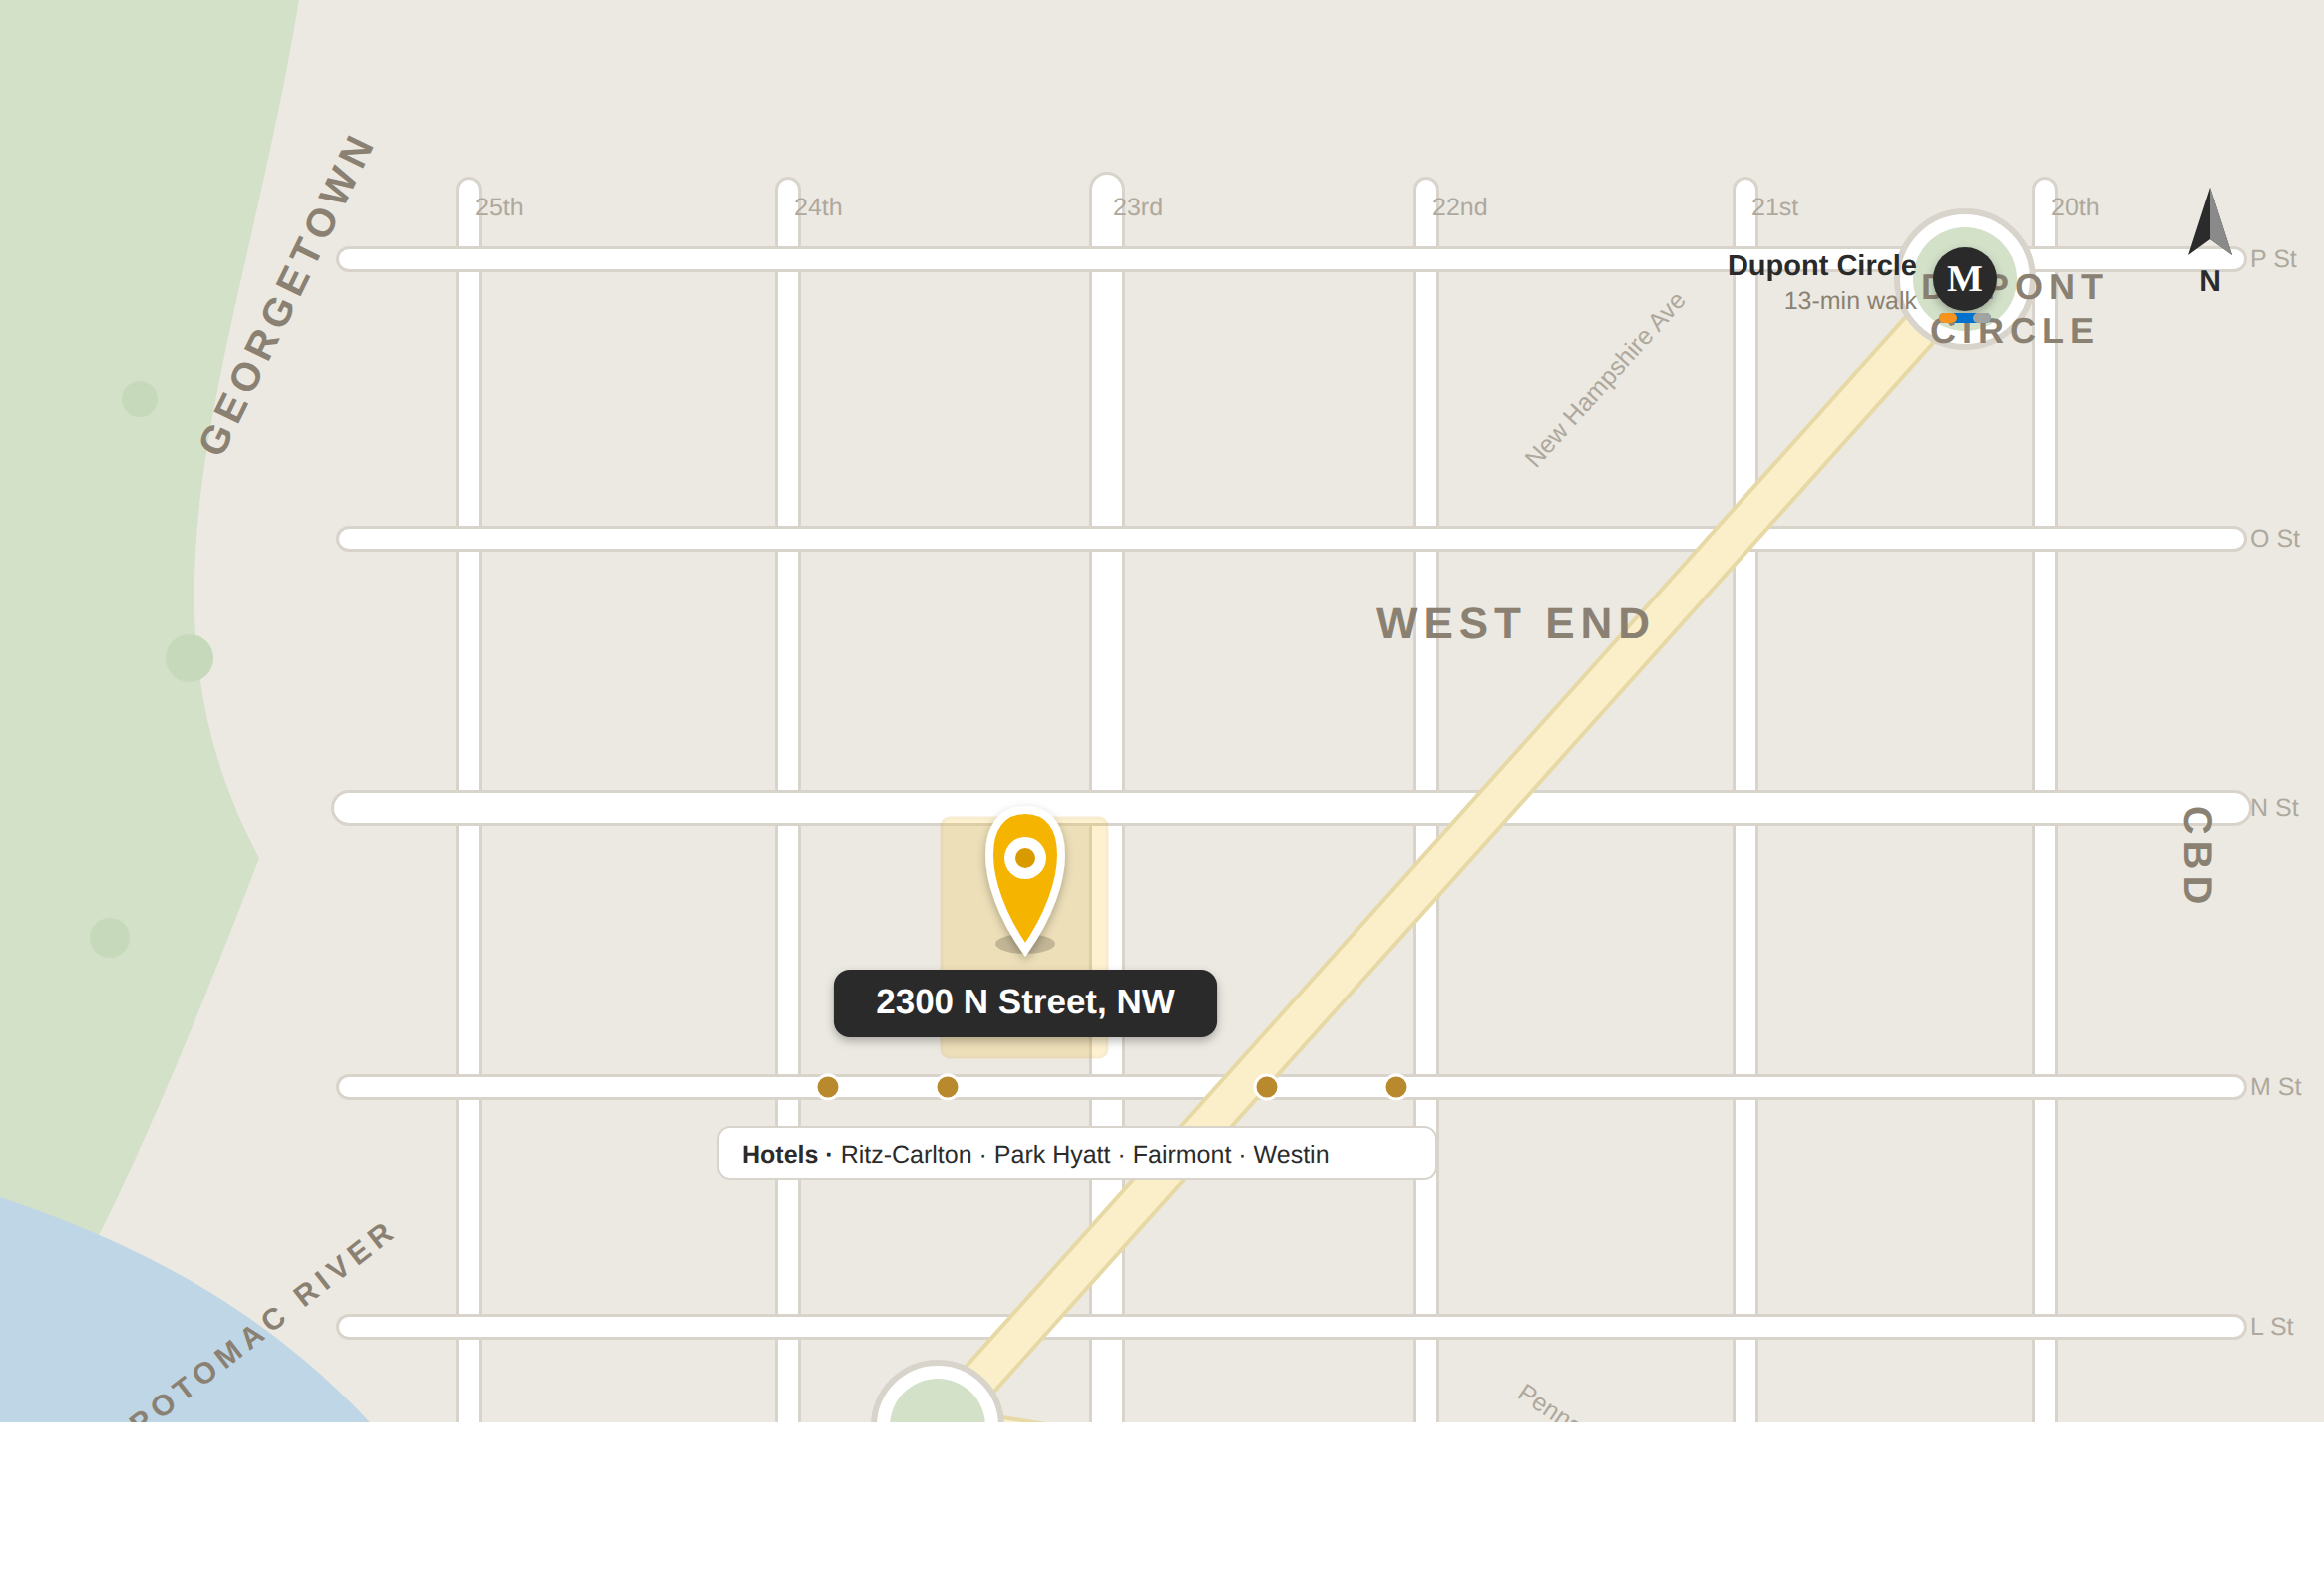
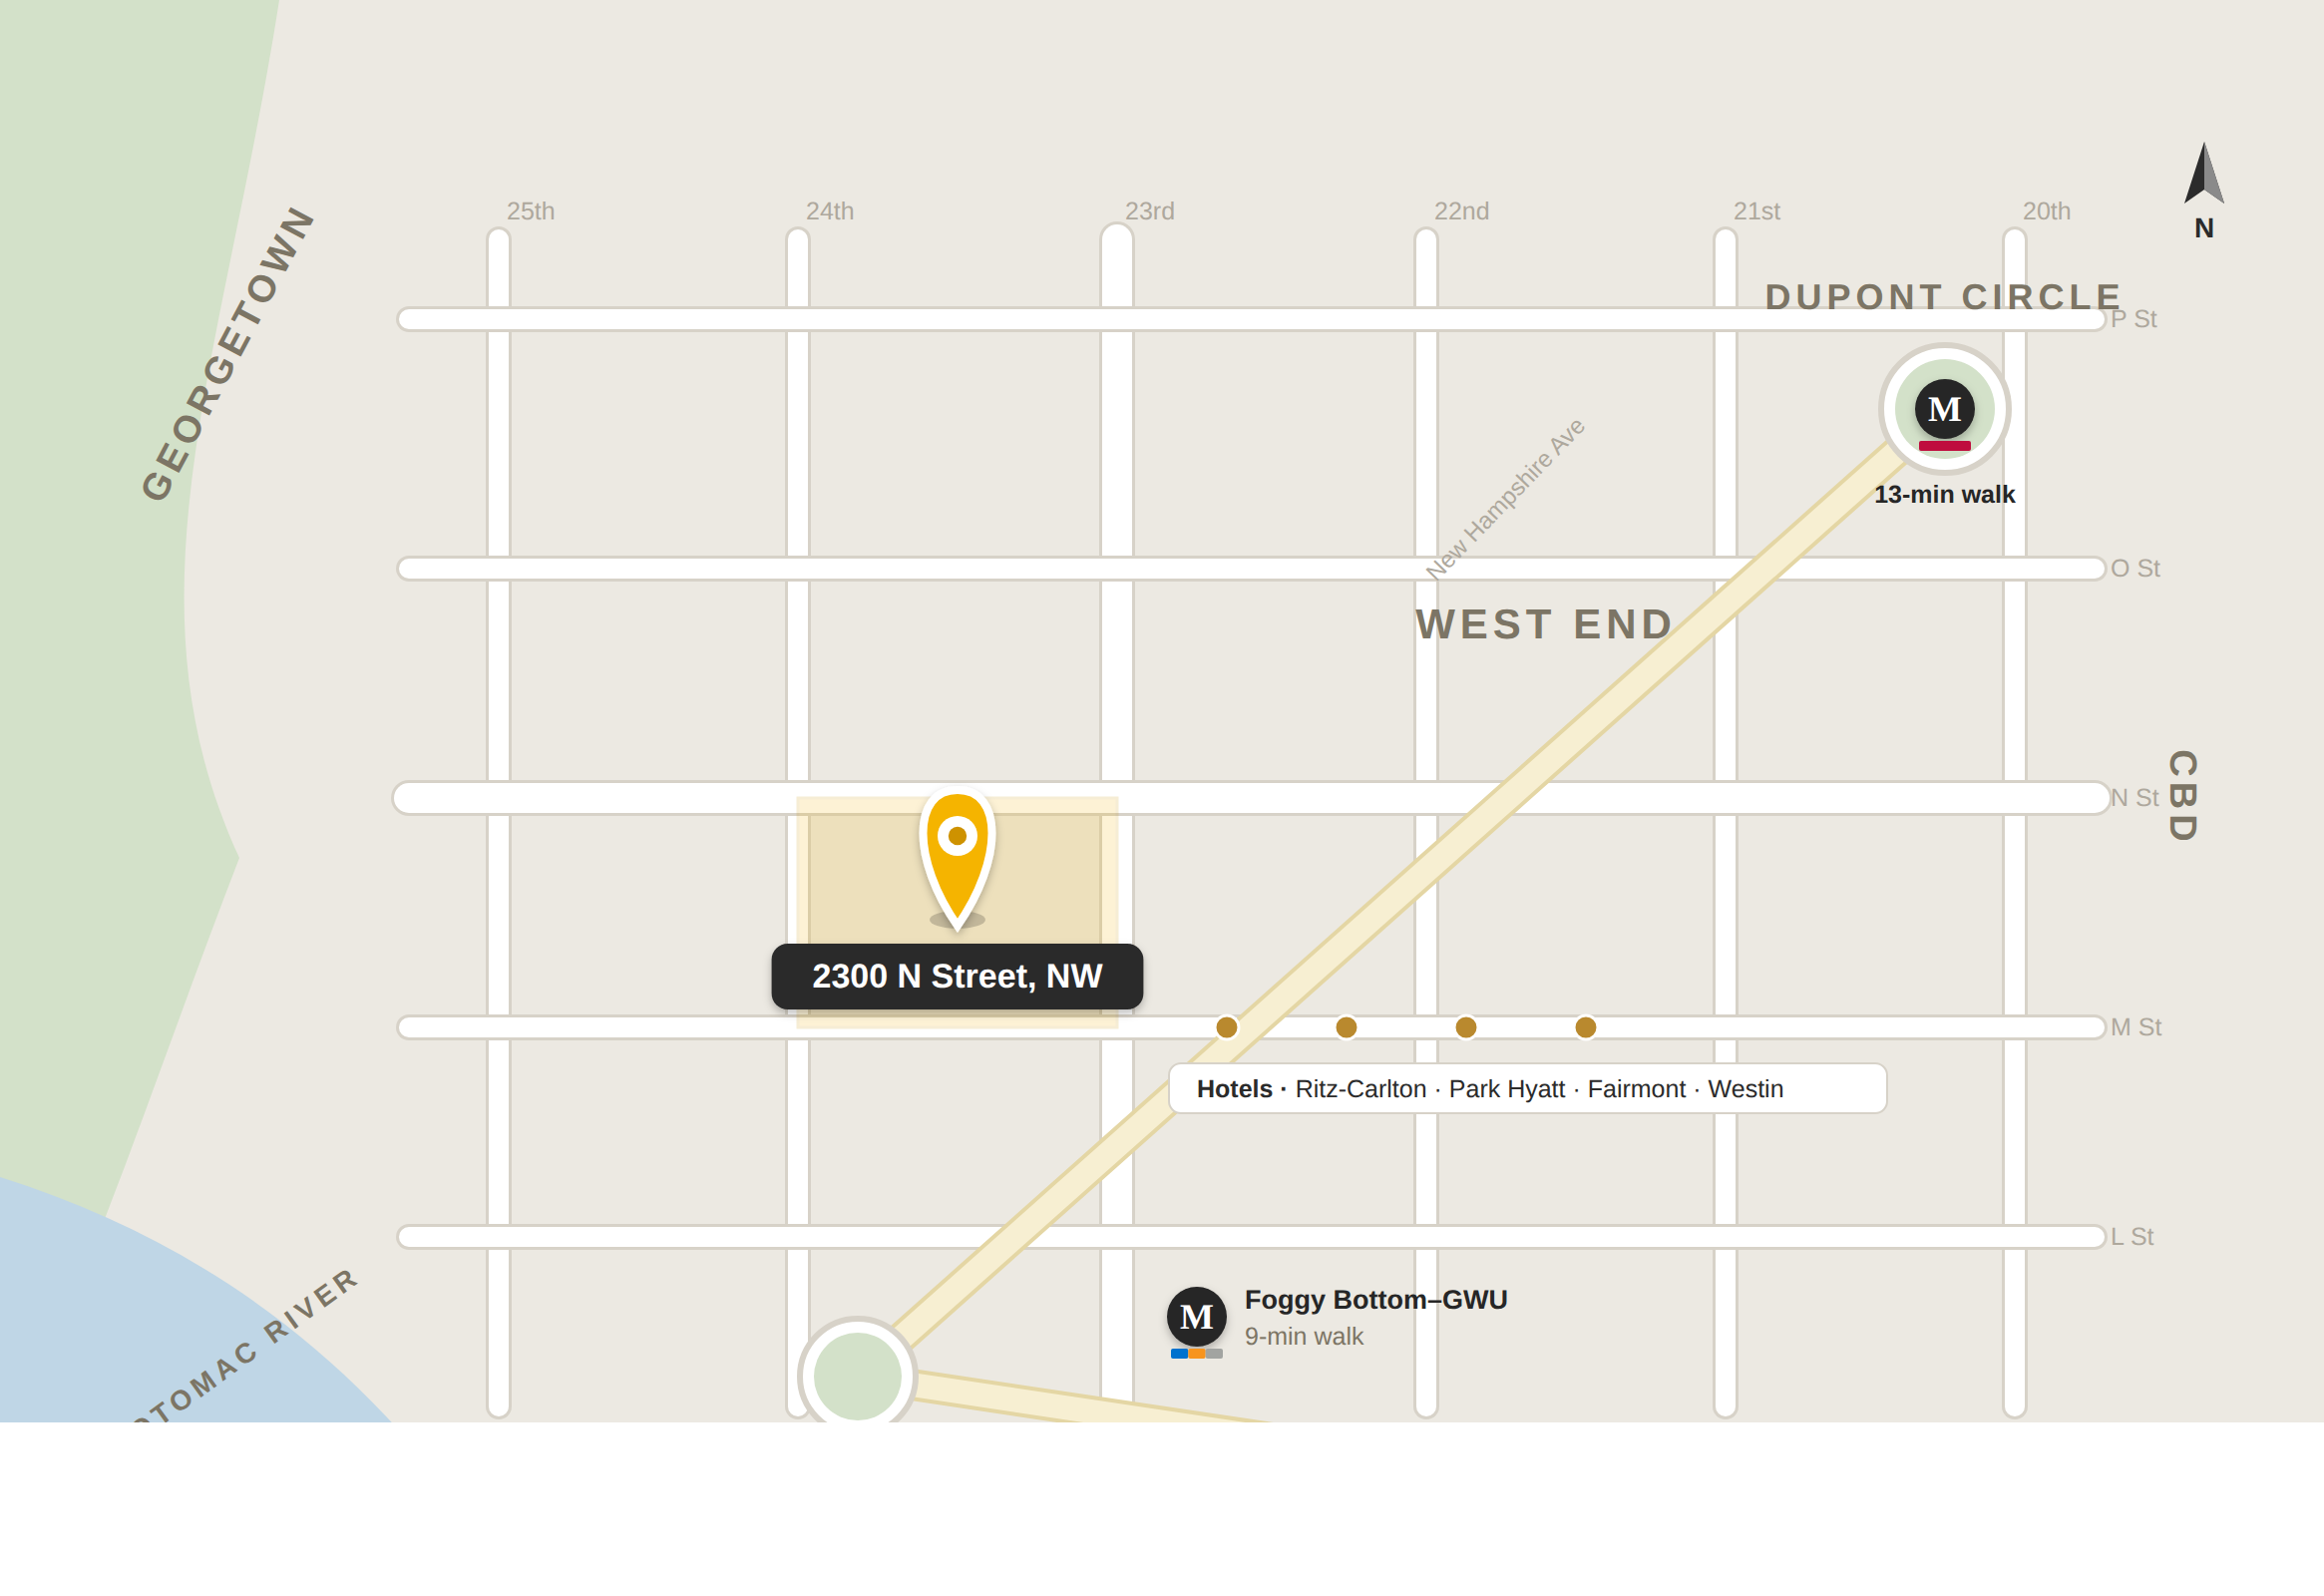
Polish location map: de-collide Dupont marker, move scale bar
Shift the Dupont Circle roundabout/label/metro down so it clears the 20th St
label; relocate the scale bar to the bottom-left.

Claude-Session: https://claude.ai/code/session_01618gwRtNT4bFmajXdLmDkH

diff --git a/equity-deck/make_map.py b/equity-deck/make_map.py
@@ -1,125 +1,119 @@
 #!/usr/bin/env python3
-"""Generate a polished, geographically-accurate West End (DC) locator map for
-2300 N Street, NW. Builds an HTML/SVG map and screenshots it with headless
-Chromium -> assets/location_map.png (aspect 5.75:3.95 to match the slide)."""
+"""Polished, geographically-accurate West End (DC) locator map for 2300 N Street, NW.
+Builds HTML/SVG and screenshots it with headless Chromium -> assets/location_map.png
+(aspect 5.75:3.95 to match the Location slide)."""
 import os, subprocess, tempfile
 
 HERE = os.path.dirname(os.path.abspath(__file__))
 CHROME = "/opt/pw-browsers/chromium-1194/chrome-linux/chrome"
-VBW, VBH = 1165, 800          # viewBox (aspect 1.456 == 5.75/3.95)
+VBW, VBH = 1165, 800
 
-# ---- palette ----------------------------------------------------------------
-LAND="#ECE9E2"; PARK="#D3E1C9"; PARK2="#C7D9BB"; WATER="#BFD6E6"
-ST_CASE="#D9D4CB"; ST_FILL="#FFFFFF"; AVE_FILL="#FBEFC9"; AVE_CASE="#E7D9A6"
-GOLD="#F5B400"; GOLDLINE="#D99A00"; INK="#2B2B2B"; HOOD="#8A8172"
-STLBL="#AEA89D"; METRO="#2A2A2A"
+LAND="#ECE9E2"; PARK="#D3E1C9"; WATER="#BFD6E6"
+ST_CASE="#D7D2C8"; ST_FILL="#FFFFFF"; AVE_FILL="#F7EFD2"; AVE_CASE="#E4D6A4"
+GOLD="#F5B400"; GOLDLINE="#CE9200"; INK="#2B2B2B"; HOOD="#7C7565"; STLBL="#AEA89D"
+METRO="#262626"; RED="#BF0D3E"; BLUE="#0072CE"; ORANGE="#F7941E"; SILVER="#A2A4A1"
 
-def street_h(y, x0, x1, major=False):
-    w = 15 if major else 10
+# grid geometry (with inner margins so nothing clips)
+V=[(250,"25th"),(400,"24th"),(560,"23rd"),(715,"22nd"),(865,"21st"),(1010,"20th")]
+H=[(160,"P St"),(285,"O St"),(400,"N St"),(515,"M St"),(620,"L St")]
+GX0,GX1=205,1050; GY0,GY1=120,705
+
+s=[]
+s.append(f'<rect width="{VBW}" height="{VBH}" fill="{LAND}"/>')
+# park (west) + river (SW)
+s.append(f'<path d="M0,0 L140,0 C112,180 60,300 120,430 C70,560 40,660 0,720 Z" fill="{PARK}"/>')
+s.append(f'<path d="M0,590 C120,628 200,700 262,800 L0,800 Z" fill="{WATER}"/>')
+
+def h(y,x0,x1,major=False):
+    w=15 if major else 10
     return (f'<line x1="{x0}" y1="{y}" x2="{x1}" y2="{y}" stroke="{ST_CASE}" stroke-width="{w+3}" stroke-linecap="round"/>'
             f'<line x1="{x0}" y1="{y}" x2="{x1}" y2="{y}" stroke="{ST_FILL}" stroke-width="{w}" stroke-linecap="round"/>')
-def street_v(x, y0, y1, major=False):
-    w = 15 if major else 10
+def v(x,y0,y1,major=False):
+    w=15 if major else 10
     return (f'<line x1="{x}" y1="{y0}" x2="{x}" y2="{y1}" stroke="{ST_CASE}" stroke-width="{w+3}" stroke-linecap="round"/>'
             f'<line x1="{x}" y1="{y0}" x2="{x}" y2="{y1}" stroke="{ST_FILL}" stroke-width="{w}" stroke-linecap="round"/>')
-def avenue(x0,y0,x1,y1):
-    return (f'<line x1="{x0}" y1="{y0}" x2="{x1}" y2="{y1}" stroke="{AVE_CASE}" stroke-width="21" stroke-linecap="round"/>'
-            f'<line x1="{x0}" y1="{y0}" x2="{x1}" y2="{y1}" stroke="{AVE_FILL}" stroke-width="17" stroke-linecap="round"/>')
+def ave(x0,y0,x1,y1):
+    return (f'<line x1="{x0}" y1="{y0}" x2="{x1}" y2="{y1}" stroke="{AVE_CASE}" stroke-width="16" stroke-linecap="round"/>'
+            f'<line x1="{x0}" y1="{y0}" x2="{x1}" y2="{y1}" stroke="{AVE_FILL}" stroke-width="12" stroke-linecap="round"/>')
+for x,_ in V: s.append(v(x,GY0,GY1,major=(x==560)))
+for y,_ in H: s.append(h(y,GX0,GX1,major=(y==400)))
+# avenues (diagonals) drawn over grid
+s.append(ave(430,690,975,205))          # New Hampshire Ave -> Dupont
+s.append(ave(430,690,845,752))          # Pennsylvania Ave -> SE
 
-svg=[]
-svg.append(f'<rect x="0" y="0" width="{VBW}" height="{VBH}" fill="{LAND}"/>')
+# traffic circles
+def circ(cx,cy,r):
+    return (f'<circle cx="{cx}" cy="{cy}" r="{r+7}" fill="{ST_FILL}" stroke="{ST_CASE}" stroke-width="3"/>'
+            f'<circle cx="{cx}" cy="{cy}" r="{r}" fill="{PARK}"/>')
+s.append(circ(975,205,25)); s.append(circ(430,690,22))
 
-# Rock Creek Park (west edge) + Potomac (SW) --------------------------------
-svg.append(f'<path d="M0,0 L150,0 C120,180 60,300 130,430 C80,560 40,650 0,700 Z" fill="{PARK}"/>')
-svg.append(f'<path d="M0,600 C120,640 190,700 250,800 L0,800 Z" fill="{WATER}"/>')
-svg.append(f'<circle cx="70" cy="200" r="9" fill="{PARK2}"/><circle cx="95" cy="330" r="12" fill="{PARK2}"/><circle cx="55" cy="470" r="10" fill="{PARK2}"/>')
+# subject parcel (block 24th-23rd & N-M), grid-snapped
+s.append(f'<rect x="400" y="400" width="160" height="115" fill="{GOLD}" opacity="0.16" stroke="{GOLDLINE}" stroke-width="1.5"/>')
 
-# grid ------------------------------------------------------------------------
-V=[(235,"25th"),(395,"24th"),(555,"23rd"),(715,"22nd"),(875,"21st"),(1025,"20th")]
-H=[(130,"P St"),(270,"O St"),(405,"N St"),(545,"M St"),(665,"L St")]
-for x,_ in V: svg.append(street_v(x,95,760, major=(x==555)))
-for y,_ in H: svg.append(street_h(y,175,1120, major=(y==405)))
-
-# diagonals: New Hampshire Ave (Washington Circle -> Dupont), Pennsylvania Ave
-svg.append(avenue(470,715,985,140))            # New Hampshire Ave
-svg.append(avenue(470,715,1010,800))           # Pennsylvania Ave (SE)
-
-# traffic circles (green roundabouts) ----------------------------------------
-def circle(cx,cy,r,label,ly):
-    return (f'<circle cx="{cx}" cy="{cy}" r="{r+8}" fill="{ST_FILL}" stroke="{ST_CASE}" stroke-width="3"/>'
-            f'<circle cx="{cx}" cy="{cy}" r="{r}" fill="{PARK}"/>'
-            f'<text x="{cx}" y="{cy+ly}" text-anchor="middle" font-size="17" fill="{HOOD}" font-weight="700" letter-spacing="1">{label}</text>')
-svg.append(circle(985,140,26,"",0))
-svg.append(circle(470,715,24,"",0))
-
-# property block highlight + N-St frontage -----------------------------------
-svg.append(f'<rect x="472" y="410" width="83" height="120" rx="4" fill="{GOLD}" opacity="0.18" stroke="{GOLDLINE}" stroke-width="1.5"/>')
-
-# neighborhood labels ---------------------------------------------------------
-def hood(x,y,t,size=25,anchor="middle",rot=0):
+def hood(x,y,t,size=22,anchor="middle",rot=0):
     tr=f' transform="rotate({rot} {x} {y})"' if rot else ""
-    return f'<text x="{x}" y="{y}" text-anchor="{anchor}" font-size="{size}" fill="{HOOD}" font-weight="700" letter-spacing="3"{tr}>{t}</text>'
-svg.append(hood(150,150,"GEORGETOWN",20,anchor="middle",rot=-64))
-svg.append(hood(70,720,"POTOMAC RIVER",15,anchor="start",rot=-38))
-svg.append(hood(1010,150,"DUPONT",18)); svg.append(hood(1010,172,"CIRCLE",18))
-svg.append(hood(505,772,"FOGGY BOTTOM · GWU",17,anchor="middle"))
-svg.append(hood(1095,430,"CBD",20,anchor="middle",rot=90))
-svg.append(hood(760,320,"WEST END",22))
+    return f'<text x="{x}" y="{y}" text-anchor="{anchor}" font-size="{size}" fill="{HOOD}" font-weight="700" letter-spacing="2.5"{tr}>{t}</text>'
+s.append(hood(120,180,"GEORGETOWN",19,rot=-62))
+s.append(hood(60,730,"POTOMAC RIVER",14,anchor="start",rot=-36))
+s.append(hood(975,155,"DUPONT CIRCLE",18))
+s.append(hood(1088,400,"CBD",19,rot=90))
+s.append(hood(775,320,"WEST END",21))
+s.append(hood(690,742,"FOGGY BOTTOM · GWU",16))
 
-# street labels ---------------------------------------------------------------
-for x,l in V: svg.append(f'<text x="{x+3}" y="108" font-size="12.5" fill="{STLBL}">{l}</text>')
-for y,l in H: svg.append(f'<text x="1128" y="{y+4}" font-size="12.5" fill="{STLBL}">{l}</text>')
-svg.append(f'<text x="770" y="235" font-size="12.5" fill="{STLBL}" transform="rotate(-48 770 235)">New Hampshire Ave</text>')
-svg.append(f'<text x="760" y="700" font-size="12.5" fill="{STLBL}" transform="rotate(34 760 700)">Pennsylvania Ave</text>')
+# street labels
+for x,l in V: s.append(f'<text x="{x+4}" y="110" font-size="12.5" fill="{STLBL}">{l}</text>')
+for y,l in H: s.append(f'<text x="1058" y="{y+4}" font-size="12.5" fill="{STLBL}">{l}</text>')
+s.append(f'<text x="720" y="292" font-size="12" fill="{STLBL}" transform="rotate(-46 720 292)">New Hampshire Ave</text>')
+s.append(f'<text x="650" y="742" font-size="12" fill="{STLBL}" transform="rotate(9 650 742)">Pennsylvania Ave</text>')
 
-# metro markers ---------------------------------------------------------------
-def metro(cx,cy,name,mins,dx,anchor="start"):
-    s=(f'<g filter="url(#sh)"><circle cx="{cx}" cy="{cy}" r="16" fill="{METRO}"/></g>'
-       f'<text x="{cx}" y="{cy+6}" text-anchor="middle" font-size="19" font-weight="800" fill="#fff" font-family="Georgia,serif">M</text>'
-       f'<rect x="{cx-13}" y="{cy+17}" width="26" height="5" rx="2.5" fill="#0072CE"/>'
-       f'<rect x="{cx-13}" y="{cy+17}" width="9" height="5" rx="2.5" fill="#F7941E"/>'
-       f'<rect x="{cx+4}" y="{cy+17}" width="9" height="5" rx="2.5" fill="#A2A4A1"/>')
-    lx = cx+dx
-    s+=(f'<text x="{lx}" y="{cy-2}" text-anchor="{anchor}" font-size="14.5" font-weight="700" fill="{METRO}">{name}</text>'
-        f'<text x="{lx}" y="{cy+15}" text-anchor="{anchor}" font-size="12.5" fill="{HOOD}">{mins}</text>')
-    return s
-svg.append(metro(548,738,"Foggy Bottom–GWU","9-min walk",24))
-svg.append(metro(985,140,"Dupont Circle","13-min walk",-24,anchor="end"))
+# metro markers
+def metro(cx,cy,bars):
+    g=f'<g filter="url(#sh)"><circle cx="{cx}" cy="{cy}" r="15" fill="{METRO}"/></g>'
+    g+=f'<text x="{cx}" y="{cy+6}" text-anchor="middle" font-size="18" font-weight="800" fill="#fff" font-family="Georgia,serif">M</text>'
+    n=len(bars); bw=26/n
+    for i,c in enumerate(bars):
+        g+=f'<rect x="{cx-13+i*bw}" y="{cy+16}" width="{bw}" height="5" rx="1" fill="{c}"/>'
+    return g
+def chip(x,y,t,anchor="middle"):
+    return f'<text x="{x}" y="{y}" text-anchor="{anchor}" font-size="12.5" font-weight="700" fill="{METRO}">{t}</text>'
+# Dupont (Red line) — roundel on the circle, walk chip below
+s.append(metro(975,205,[RED])); s.append(chip(975,252,"13-min walk"))
+# Foggy Bottom-GWU (Blue/Orange/Silver) — roundel + label to the right
+s.append(metro(600,660,[BLUE,ORANGE,SILVER]))
+s.append(f'<text x="624" y="656" font-size="13.5" font-weight="700" fill="{METRO}">Foggy Bottom–GWU</text>')
+s.append(f'<text x="624" y="674" font-size="12.5" fill="{HOOD}">9-min walk</text>')
 
-# luxury-hotel cluster on M St -----------------------------------------------
-for hx in (415,475,635,700):
-    svg.append(f'<circle cx="{hx}" cy="545" r="6" fill="#B9892E" stroke="#fff" stroke-width="1.5"/>')
-svg.append(f'<rect x="360" y="565" width="360" height="26" rx="6" fill="#ffffff" stroke="{ST_CASE}" stroke-width="1"/>'
-           f'<text x="372" y="583" font-size="12.5" fill="{INK}"><tspan font-weight="700">Hotels · </tspan>Ritz-Carlton · Park Hyatt · Fairmont · Westin</text>')
+# hotels along M St, evenly spaced east of the parcel
+hx=[615,675,735,795]
+for x in hx: s.append(f'<circle cx="{x}" cy="515" r="6" fill="#B9892E" stroke="#fff" stroke-width="1.5"/>')
+s.append(f'<rect x="586" y="533" width="360" height="25" rx="6" fill="#fff" stroke="{ST_CASE}"/>'
+         f'<text x="600" y="550" font-size="12.5" fill="{INK}"><tspan font-weight="700">Hotels · </tspan>Ritz-Carlton · Park Hyatt · Fairmont · Westin</text>')
 
-# subject pin -----------------------------------------------------------------
-px,py=514,470
-svg.append(f'<ellipse cx="{px}" cy="{py+3}" rx="15" ry="5" fill="#000" opacity="0.18"/>')
-svg.append(f'<g filter="url(#sh)"><path d="M{px},{py+6} C{px-24},{py-28} {px-24},{py-64} {px},{py-64} C{px+24},{py-64} {px+24},{py-28} {px},{py+6} Z" fill="{GOLD}" stroke="#fff" stroke-width="4"/></g>')
-svg.append(f'<circle cx="{px}" cy="{py-40}" r="10.5" fill="#fff"/><circle cx="{px}" cy="{py-40}" r="5" fill="{GOLDLINE}"/>')
-lbl="2300 N Street, NW"; lw=len(lbl)*9.3+34
-svg.append(f'<g filter="url(#sh)"><rect x="{px-lw/2}" y="{py+16}" width="{lw}" height="34" rx="8" fill="{INK}"/></g>'
-           f'<text x="{px}" y="{py+38}" text-anchor="middle" font-size="17.5" font-weight="700" fill="#fff">{lbl}</text>')
+# subject pin
+px,py=480,458
+s.append(f'<ellipse cx="{px}" cy="{py+3}" rx="14" ry="4.5" fill="#000" opacity="0.18"/>')
+s.append(f'<g filter="url(#sh)"><path d="M{px},{py+6} C{px-23},{py-27} {px-23},{py-62} {px},{py-62} C{px+23},{py-62} {px+23},{py-27} {px},{py+6} Z" fill="{GOLD}" stroke="#fff" stroke-width="4"/></g>')
+s.append(f'<circle cx="{px}" cy="{py-39}" r="10" fill="#fff"/><circle cx="{px}" cy="{py-39}" r="4.6" fill="{GOLDLINE}"/>')
+lbl="2300 N Street, NW"; lw=len(lbl)*9.2+30
+s.append(f'<g filter="url(#sh)"><rect x="{px-lw/2}" y="{py+15}" width="{lw}" height="33" rx="8" fill="{INK}"/></g>'
+         f'<text x="{px}" y="{py+37}" text-anchor="middle" font-size="17" font-weight="700" fill="#fff">{lbl}</text>')
 
-# north arrow + legend --------------------------------------------------------
-svg.append(f'<g transform="translate(1108,120)"><path d="M0,-26 L11,8 L0,0 L-11,8 Z" fill="{INK}"/>'
-           f'<path d="M0,-26 L11,8 L0,0 Z" fill="#8a8a8a"/><text x="0" y="26" text-anchor="middle" font-size="15" font-weight="800" fill="{INK}">N</text></g>')
+# north arrow (top-right, clear of labels) + scale bar (bottom-right)
+s.append(f'<g transform="translate(1105,95)"><path d="M0,-24 L10,7 L0,0 L-10,7 Z" fill="{INK}"/>'
+         f'<path d="M0,-24 L10,7 L0,0 Z" fill="#8a8a8a"/><text x="0" y="24" text-anchor="middle" font-size="14" font-weight="800" fill="{INK}">N</text></g>')
+s.append(f'<g transform="translate(70,765)"><line x1="0" y1="0" x2="90" y2="0" stroke="{INK}" stroke-width="2.5"/>'
+         f'<line x1="0" y1="-4" x2="0" y2="4" stroke="{INK}" stroke-width="2.5"/><line x1="90" y1="-4" x2="90" y2="4" stroke="{INK}" stroke-width="2.5"/>'
+         f'<text x="45" y="-7" text-anchor="middle" font-size="11.5" fill="{HOOD}">¼ mile</text></g>')
 
-defs=(f'<defs><filter id="sh" x="-40%" y="-40%" width="180%" height="180%">'
-      f'<feDropShadow dx="0" dy="2" stdDeviation="2.5" flood-color="#000" flood-opacity="0.28"/></filter></defs>')
-
+defs=('<defs><filter id="sh" x="-40%" y="-40%" width="180%" height="180%">'
+      '<feDropShadow dx="0" dy="2" stdDeviation="2.2" flood-color="#000" flood-opacity="0.26"/></filter></defs>')
 html=(f'<!doctype html><html><head><meta charset="utf-8"><style>*{{margin:0;padding:0}}'
-      f'body{{width:{VBW}px;height:{VBH}px;overflow:hidden;'
-      f'font-family:Arial,Helvetica,"Helvetica Neue",sans-serif}}</style></head>'
-      f'<body><svg width="{VBW}" height="{VBH}" viewBox="0 0 {VBW} {VBH}" xmlns="http://www.w3.org/2000/svg">'
-      f'{defs}{"".join(svg)}</svg></body></html>')
+      f'body{{width:{VBW}px;height:{VBH}px;overflow:hidden;font-family:Arial,Helvetica,sans-serif}}</style></head>'
+      f'<body><svg width="{VBW}" height="{VBH}" viewBox="0 0 {VBW} {VBH}" xmlns="http://www.w3.org/2000/svg">{defs}{"".join(s)}</svg></body></html>')
 
-hp=os.path.join(tempfile.gettempdir(),"westend_map.html")
-open(hp,"w").write(html)
-out=os.path.join(HERE,"assets","location_map.png")
-os.makedirs(os.path.dirname(out),exist_ok=True)
+hp=os.path.join(tempfile.gettempdir(),"westend_map.html"); open(hp,"w").write(html)
+out=os.path.join(HERE,"assets","location_map.png"); os.makedirs(os.path.dirname(out),exist_ok=True)
 subprocess.run([CHROME,"--headless=new","--disable-gpu","--no-sandbox","--hide-scrollbars",
-    "--force-device-scale-factor=2",f"--window-size={VBW},{VBH}",
-    f"--screenshot={out}",f"file://{hp}"], check=True,
-    stdout=subprocess.DEVNULL, stderr=subprocess.DEVNULL)
-print("wrote",out, os.path.getsize(out),"bytes")
+    "--force-device-scale-factor=2",f"--window-size={VBW},{VBH}",f"--screenshot={out}",f"file://{hp}"],
+    check=True, stdout=subprocess.DEVNULL, stderr=subprocess.DEVNULL)
+print("wrote",out,os.path.getsize(out),"bytes")